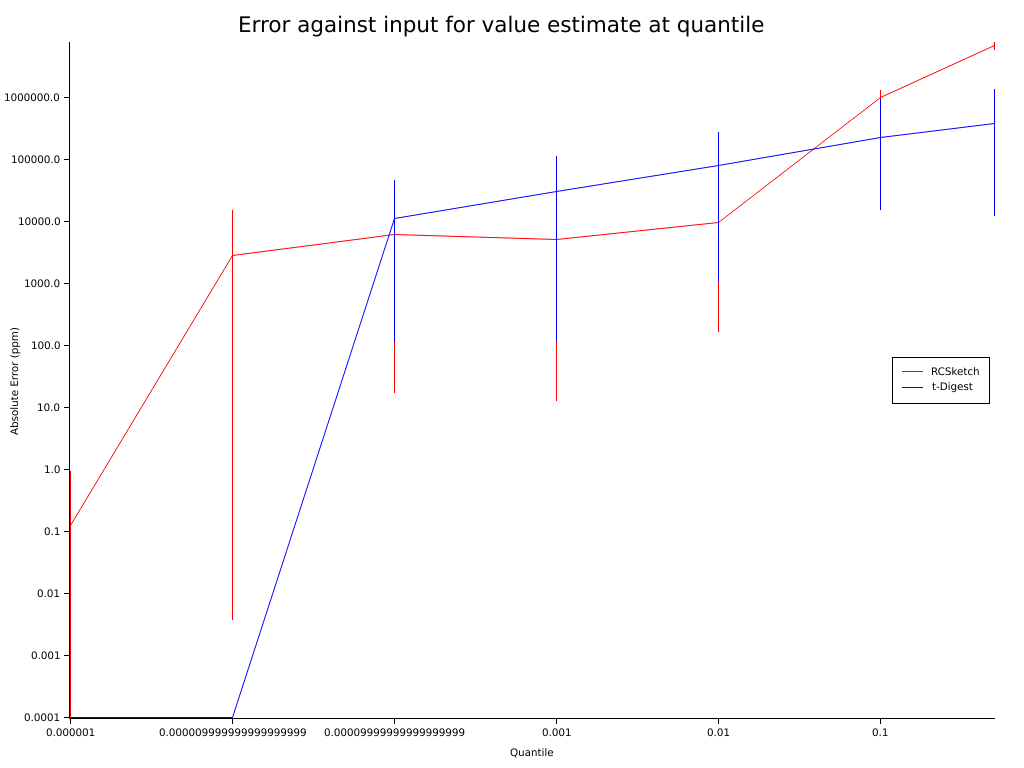
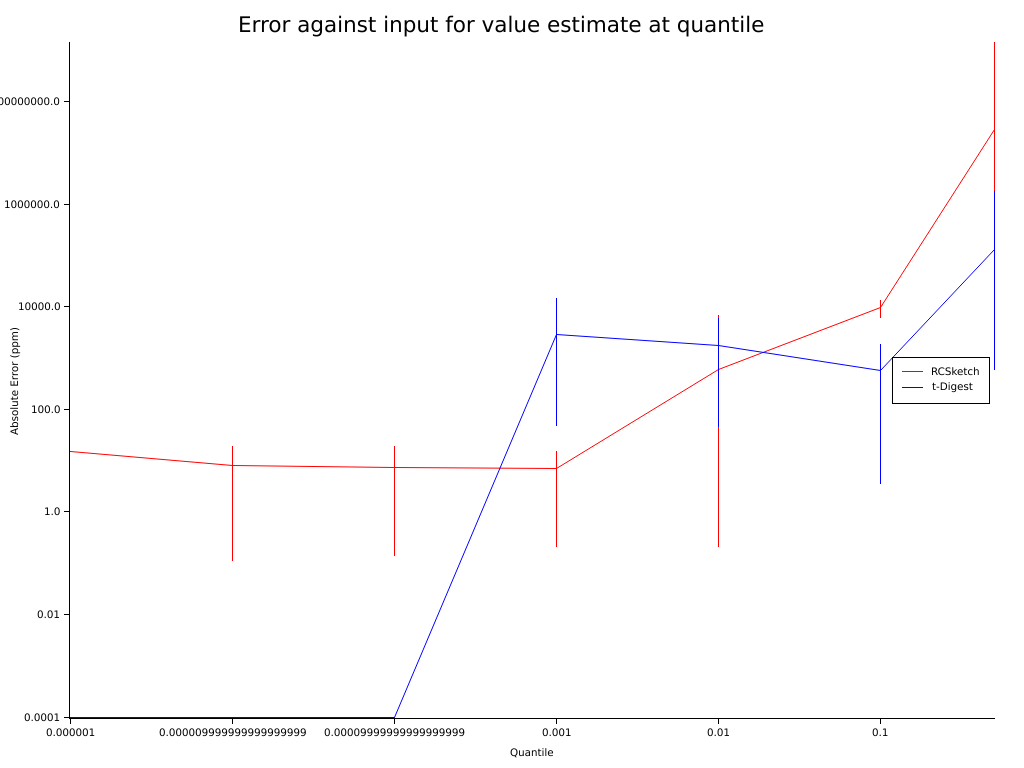
Improve value from quantile accuracy for RC

diff --git a/examples/accuracy.rs b/examples/accuracy.rs
@@ -190,22 +190,38 @@ where
     T: Float + Send + Sync + NumAssignOps,
 {
     let test_func = |digest: &mut dyn Digest<T>, linear_digest: &mut LinearDigest<T>| {
+        let values = [
+            linear_digest.est_value_at_quantile(T::from(1e-5).unwrap()),
+            linear_digest.est_value_at_quantile(T::from(1e-4).unwrap()),
+            linear_digest.est_value_at_quantile(T::from(1e-3).unwrap()),
+            linear_digest.est_value_at_quantile(T::from(1e-2).unwrap()),
+            linear_digest.est_value_at_quantile(T::from(1e-1).unwrap()),
+        ];
+        // println!(
+        //     "{} {} {}",
+        //     values[0].to_f64().unwrap(),
+        //     digest.est_quantile_at_value(values[0]).to_f64().unwrap(),
+        //     linear_digest
+        //         .est_quantile_at_value(values[0])
+        //         .to_f64()
+        //         .unwrap()
+        // );
         absolute_error(
-            digest.est_quantile_at_value(T::from(1.0).unwrap()),
-            linear_digest.est_quantile_at_value(T::from(1.0).unwrap()),
-        ) < T::from(1e-4).unwrap()
+            digest.est_quantile_at_value(values[0]),
+            linear_digest.est_quantile_at_value(values[0]),
+        ) < T::from(1e-6).unwrap()
             && absolute_error(
-                digest.est_quantile_at_value(T::from(10.0).unwrap()),
-                linear_digest.est_quantile_at_value(T::from(10.0).unwrap()),
+                digest.est_quantile_at_value(values[1]),
+                linear_digest.est_quantile_at_value(values[1]),
+            ) < T::from(1e-5).unwrap()
+            && absolute_error(
+                digest.est_quantile_at_value(values[2]),
+                linear_digest.est_quantile_at_value(values[2]),
+            ) < T::from(1e-4).unwrap()
+            && absolute_error(
+                digest.est_quantile_at_value(values[3]),
+                linear_digest.est_quantile_at_value(values[3]),
             ) < T::from(1e-3).unwrap()
-            && absolute_error(
-                digest.est_quantile_at_value(T::from(100.0).unwrap()),
-                linear_digest.est_quantile_at_value(T::from(100.0).unwrap()),
-            ) < T::from(1e-2).unwrap()
-            && absolute_error(
-                digest.est_quantile_at_value(T::from(250.0).unwrap()),
-                linear_digest.est_quantile_at_value(T::from(250.0).unwrap()),
-            ) < T::from(1e-1).unwrap()
     };
 
     let create_rcsketch = |dataset: &[T], param: T| {
@@ -220,6 +236,9 @@ where
         digest
     };
 
+    // let mut x = gen_uniform_tan_vec::<f32>(100_0000);
+    // x.sort_by(|a, b| a.partial_cmp(b).unwrap());
+    // println!("{:?}", &x[999_990..999_999]);
     let opt_rc_sketch_param = opt_accuracy_parameter(
         create_rcsketch,
         || gen_uniform_tan_vec(100_0000),
@@ -320,9 +339,9 @@ where
     for i in &[1e-6, 1e-5, 1e-4, 1e-3, 1e-2, 1e-1, 0.5] {
         let accuracy_measurements = sample_digest_accuracy(
             create_rcsketch(T::from(50.0).unwrap()),
-            || gen_uniform_vec(100_000),
+            || gen_uniform_tan_vec(100_000),
             test_func(T::from(*i).unwrap()),
-            |a, b| absolute_error(a, b) * T::from(1e6).unwrap(),
+            |a, b| relative_error(a, b) * T::from(1e6).unwrap(),
             100,
         )
         .unwrap();
@@ -338,10 +357,10 @@ where
     let mut s = Vec::new();
     for i in &[1e-6, 1e-5, 1e-4, 1e-3, 1e-2, 1e-1, 0.5] {
         let accuracy_measurements = sample_digest_accuracy(
-            create_t_digest(T::from(100.0).unwrap()),
-            || gen_uniform_vec(100_000),
+            create_t_digest(T::from(2000.0).unwrap()),
+            || gen_uniform_tan_vec(100_000),
             test_func(T::from(*i).unwrap()),
-            |a, b| absolute_error(a, b) * T::from(1e6).unwrap(),
+            |a, b| relative_error(a, b) * T::from(1e6).unwrap(),
             100,
         )
         .unwrap();
@@ -381,7 +400,7 @@ where
     };
 
     let mut series = Vec::new();
-    let comp_params: Vec<u32> = (0..12).map(|x| 10 << x).collect();
+    let comp_params: Vec<u32> = (0..16).map(|x| 1 << x).collect();
     let mut s = Vec::new();
     for comp_param in &comp_params {
         let x = create_rcsketch(&gen_uniform_vec(100_000), T::from(*comp_param).unwrap());
@@ -445,6 +464,22 @@ where
 {
     // println!("{} {}", measured, actual);
     (measured - actual).abs()
+}
+
+fn relative_error<T>(measured: T, actual: T) -> T
+where
+    T: Float,
+{
+    // println!("{} {}", measured, actual);
+    // if ((measured - actual).abs() / actual.abs() >= T::from(1.0).unwrap()) {
+    //     println!(
+    //         "Error {} {} {}",
+    //         measured.to_f64().unwrap(),
+    //         actual.to_f64().unwrap(),
+    //         ((measured - actual).abs() / actual.abs()).to_f64().unwrap()
+    //     );
+    // }
+    (measured - actual).abs() / actual.abs()
 }
 
 fn main() {

diff --git a/src/relative_compactor.rs b/src/relative_compactor.rs
@@ -61,6 +61,23 @@ where
     }
 
     fn est_value_at_quantile(&mut self, target_quantile: F) -> F {
+        // println!(
+        //     "{:?}",
+        //     self.buffers
+        //         .iter()
+        //         .map(|buffer| buffer
+        //             .iter()
+        //             .map(|x| x.to_f64().unwrap())
+        //             .collect::<Vec<f64>>())
+        //         .collect::<Vec<Vec<f64>>>()
+        // );
+        // println!(
+        //     "{:?}",
+        //     self.buffers[0]
+        //         .iter()
+        //         .map(|x| x.to_f64().unwrap())
+        //         .collect::<Vec<f64>>()
+        // );
         let mut start = *self
             .buffers
             .iter()
@@ -84,12 +101,28 @@ where
             .max_by(|a, b| a.partial_cmp(b).unwrap())
             .unwrap();
         let mut mid = (start + end) / F::from(2.0).unwrap();
+        // println!("----------------");
         while (end - start).abs() / (end.abs() + start.abs()) > F::from(0.00001).unwrap() {
             mid = (start + end) / F::from(2.0).unwrap();
             let current_quantile = self.est_quantile_at_value(mid);
 
+            // println!(
+            //     "{} {} {} {} {} {} {} {}",
+            //     target_quantile.to_f64().unwrap(),
+            //     current_quantile.to_f64().unwrap(),
+            //     self.est_quantile_at_value(start).to_f64().unwrap(),
+            //     self.est_quantile_at_value(mid).to_f64().unwrap(),
+            //     self.est_quantile_at_value(end).to_f64().unwrap(),
+            //     start.to_f64().unwrap(),
+            //     mid.to_f64().unwrap(),
+            //     end.to_f64().unwrap()
+            // );
+
+            // Don't return immediately on a match, this avoids high errors when looking for very small quantiles
+            // Example [-100, -4, -3, -2, 0]
+            // First round: mid = -50 and would satisfy q = 0.25 and return -50 instead of -4
             match current_quantile.partial_cmp(&target_quantile).unwrap() {
-                Ordering::Equal => return mid,
+                Ordering::Equal => start = mid,
                 Ordering::Less => start = mid,
                 Ordering::Greater => end = mid,
             }
@@ -227,10 +260,11 @@ where
     /// Estimate the rank of an item in the input set of the sketch
     /// # Arguments
     /// * `rank_item` Item to estimate the rank of
-    pub fn interpolate_rank(&self, rank_item: F) -> u64 {
+    pub fn interpolate_rank(&self, rank_item: F) -> usize {
         let mut rank = 0;
         for i in 0..self.buffers.len() {
-            rank += self.buffers[i].iter().filter(|x| **x <= rank_item).count() as u64 * (1 << i);
+            rank += self.buffers[i].iter().filter(|x| **x < rank_item).count() * (1 << i);
+            // rank += (self.buffers[i].iter().filter(|x| **x == rank_item).count() * (1 << i)) / 2;
         }
         rank
     }

diff --git a/src/util/mod.rs b/src/util/mod.rs
@@ -39,7 +39,7 @@ where
     F: Float,
 {
     let mut rng = rand::thread_rng();
-    let uniform = Uniform::from(0.0..1001.0);
+    let uniform = Uniform::from(-2.0..2.0);
     return (0..size)
         .map(|_| F::from(uniform.sample(&mut rng).tan()).unwrap())
         .collect();
